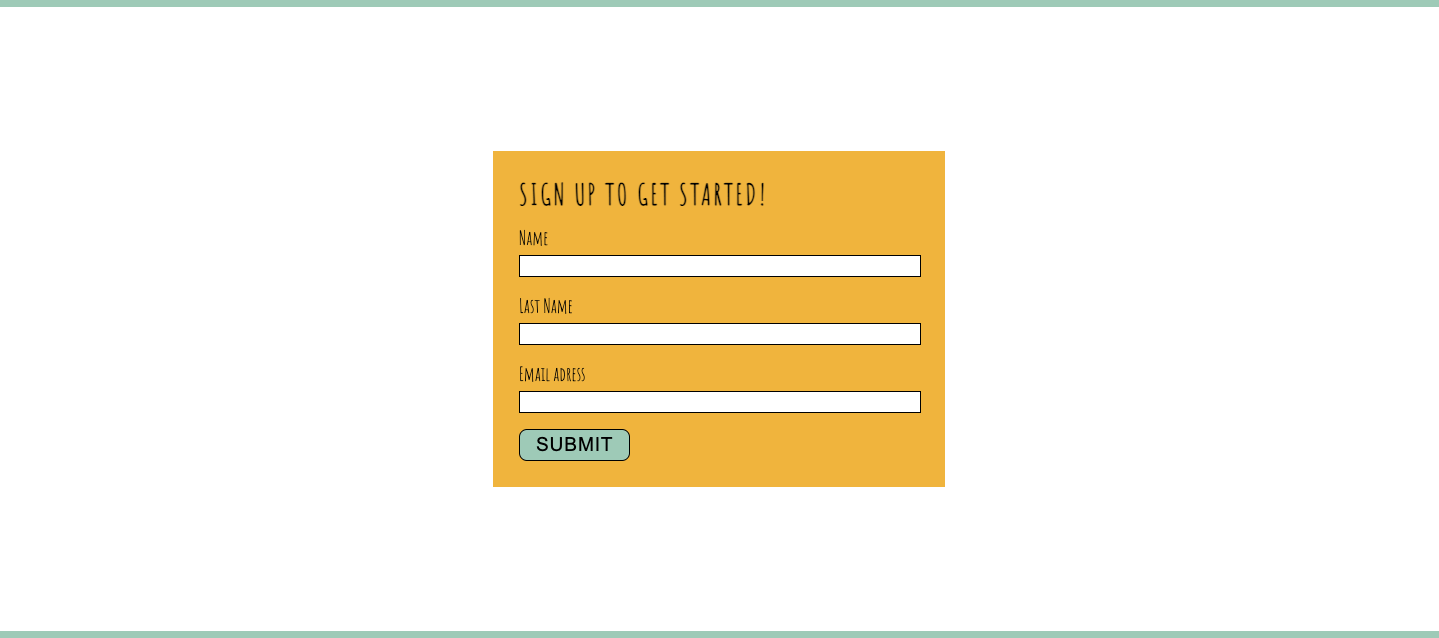
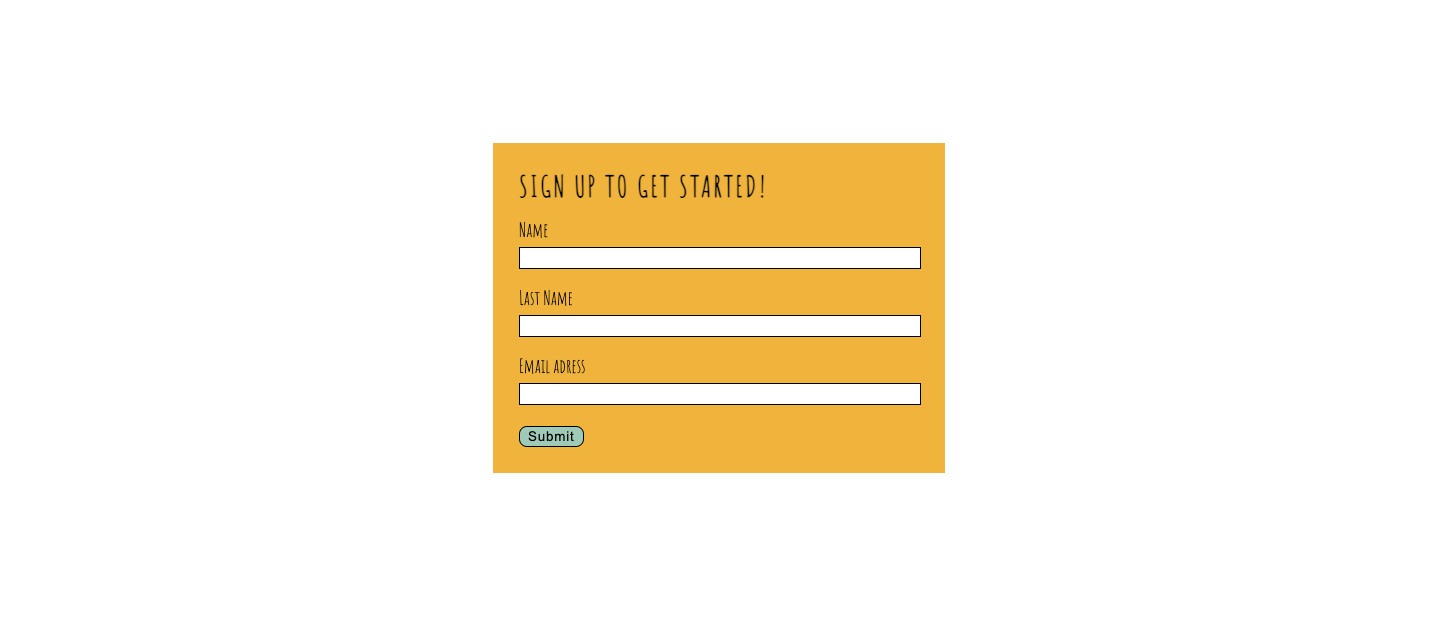
Add new style to Sign-up section.

diff --git a/assets/css/style.css b/assets/css/style.css
@@ -136,12 +136,11 @@ h1, h2 {
 }
 
 #submit {
-    padding: 5px 20px;
+    padding: 3px 10px;
     border-radius: 10px;
     text-align: center;
-    font-size: 100%;
+    font-size: 70%;
     letter-spacing: 1px;
-    text-transform: uppercase;
     background-color: #A8C7B6;
     border: 1px solid black;
     color: black;    
@@ -206,7 +205,6 @@ footer{
     #menu {
         line-height: 40px;
         padding-left: 1rem;
-        margin-right: 15px;
         font-size: 120%;
         letter-spacing: 1px;
         float: left;
